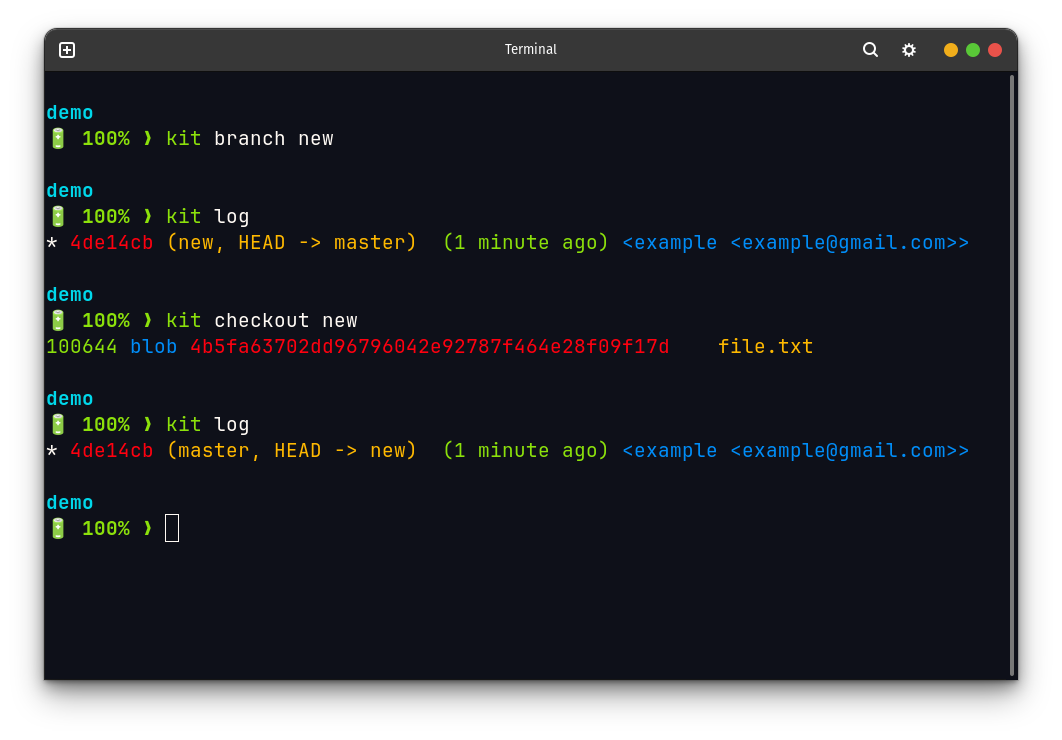
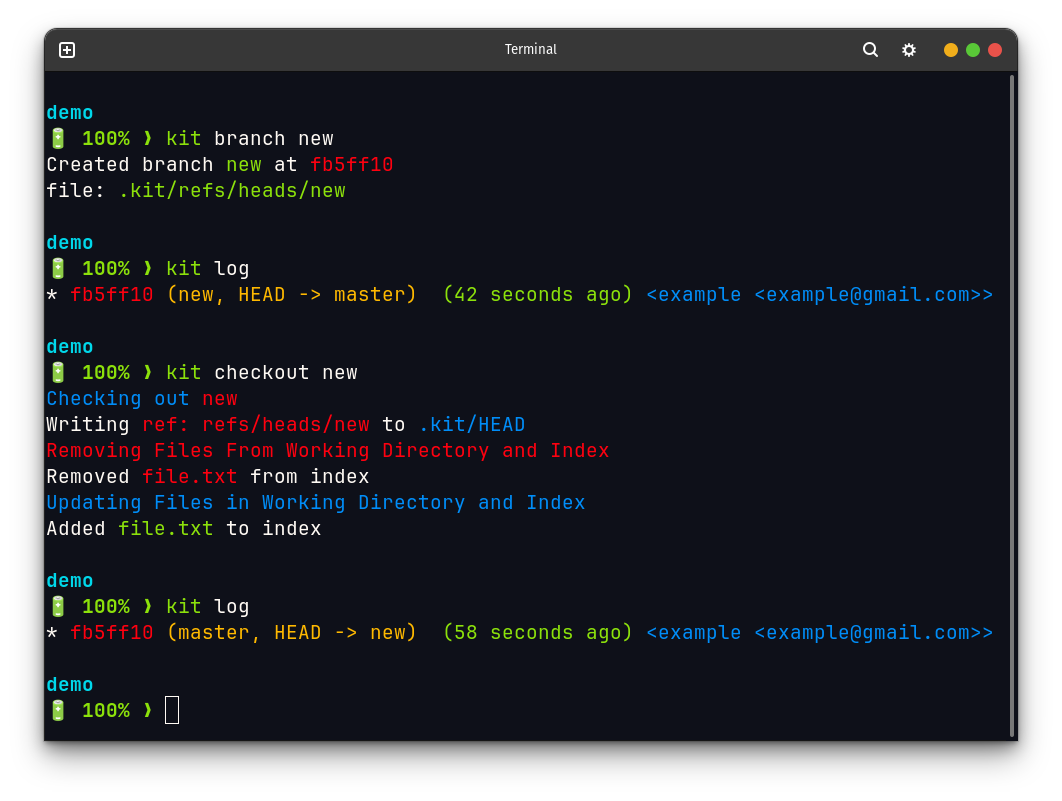
📝 Update README.md

diff --git a/README.md b/README.md
@@ -30,11 +30,6 @@ git model is based on four objects:
 
 I'll be implementing plumbing commands at first, then I'll implement porcelain commands.
 
-### Next
-- Add more prints to display what's going on in these commands:
-  - [x] init
-  - [x] checkout
-  - [x] branch
 
 ## Plumbing Commands
 - [x] hash-object
@@ -59,13 +54,17 @@ I'll be implementing plumbing commands at first, then I'll implement porcelain c
 ### Init a repo creating a file and checking status
 
 <div align="center">
-    <img src="images/kit-init-status.png">
+    <img src="images/kit-init.png">
 </div>
 
 ### Adding file to index and configuring user then commiting and log to see the commit
 
 <div align="center">
-    <img src="images/kit-add-commit.png">
+    <img src="images/kit-add-status.png">
+</div>
+
+<div align="center">
+    <img src="images/kit-config-commit.png">
 </div>
 
 ### Create a branch and checkout to it
